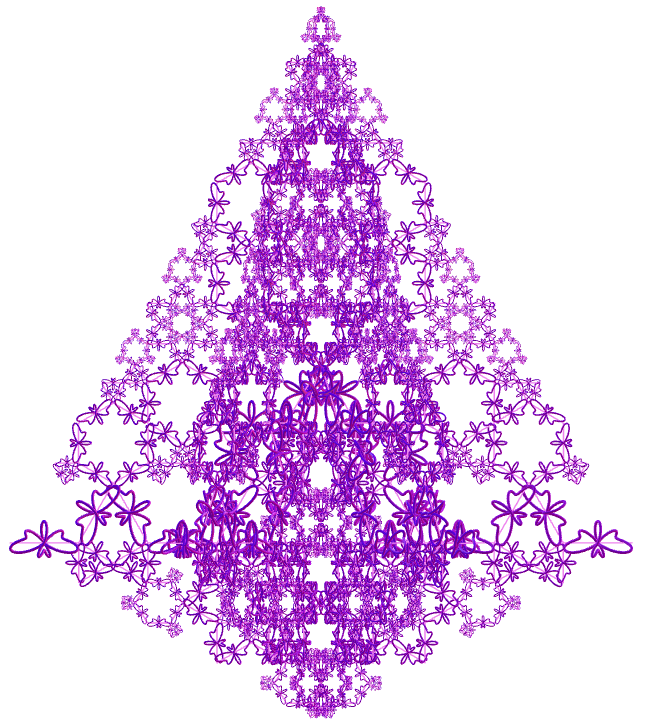
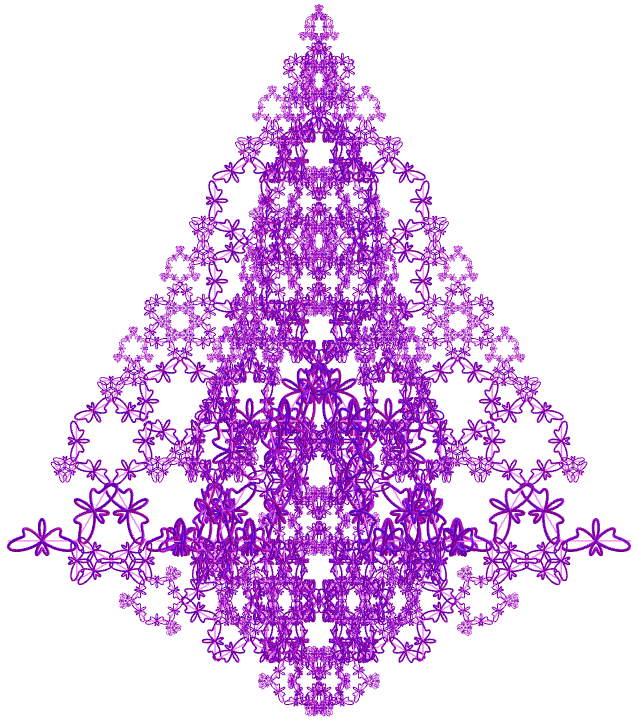
update

diff --git a/holidaytree/vr/curve108.htm b/holidaytree/vr/curve108.htm
@@ -16,12 +16,12 @@
 		<a-assets>
 			<a-mixin id="p1a" position="-1.06 0.612 0" rotation='0 0 30' mixin="sc1"></a-mixin>
 			<a-mixin id="p2a" position="1.06 0.612 0" rotation="0 180 30" mixin="sc1"></a-mixin>
-			<a-mixin id="p3a" position="-0.353 1.836 0" rotation='0 0 -60' mixin="sc"></a-mixin>
+			<a-mixin id="p3a" position="-0.353 1.836 0" rotation='0 0 120' mixin="sc"></a-mixin>
 			<a-mixin id="p4a" position="0 2.448 0" rotation="0 180 0" mixin="sc"></a-mixin>
-			<a-mixin id="p5a" position="0.353 1.836 0" rotation="0 0 60" mixin="sc"></a-mixin>
+			<a-mixin id="p5a" position="0.353 1.836 0" rotation="0 0 -120" mixin="sc"></a-mixin>
 			
-			<a-mixin id="sc" scale="0.1878 0.1878 0.1878"></a-mixin>
-			<a-mixin id="sc1" scale="0.3225 0.3225 0.3225"></a-mixin>
+			<a-mixin id="sc" scale="0.2878 0.2878 0.3878"></a-mixin>
+			<a-mixin id="sc1" scale="0.3725 0.3725 0.4525"></a-mixin>
 			<!--SCALE = scale de MTL4 * 0.475 e 0.816 -->
 			<a-mixin scale="2.53 2.53 2.53" rotation="0 0 0" id="ar" line__0="start: -1.5 0 0; end: 1.5 0 0; color: skyblue"></a-mixin><!--SCALE = inverso do scale de MTL4 -->
 			

diff --git a/holidaytree/vr/curve109.htm b/holidaytree/vr/curve109.htm
@@ -16,9 +16,9 @@
 		<a-assets>
 			<a-mixin id="p1a" position="-1.06 0.612 0" rotation='0 0 30' mixin="sc1"></a-mixin>
 			<a-mixin id="p2a" position="1.06 0.612 0" rotation="0 180 30" mixin="sc1"></a-mixin>
-			<a-mixin id="p3a" position="-0.353 1.836 0" rotation='0 0 -60' mixin="sc"></a-mixin>
+			<a-mixin id="p3a" position="-0.353 1.836 0" rotation='0 0 120' mixin="sc"></a-mixin>
 			<a-mixin id="p4a" position="0 2.448 0" rotation="0 180 0" mixin="sc"></a-mixin>
-			<a-mixin id="p5a" position="0.353 1.836 0" rotation="0 0 60" mixin="sc"></a-mixin>
+			<a-mixin id="p5a" position="0.353 1.836 0" rotation="0 0 -120" mixin="sc"></a-mixin>
 			
 			<a-mixin id="sc" scale="0.1484 0.1484 0.1484"></a-mixin>
 			<a-mixin id="sc1" scale="0.255 0.255 0.255"></a-mixin>
